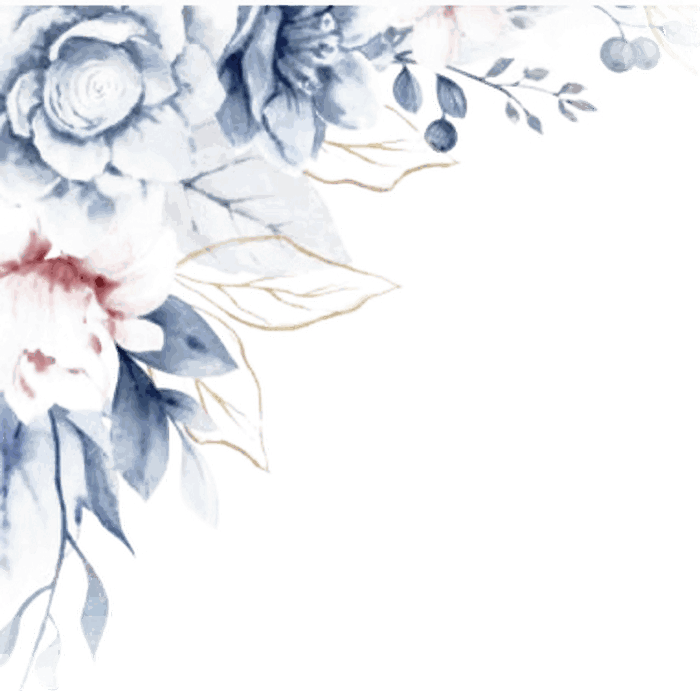
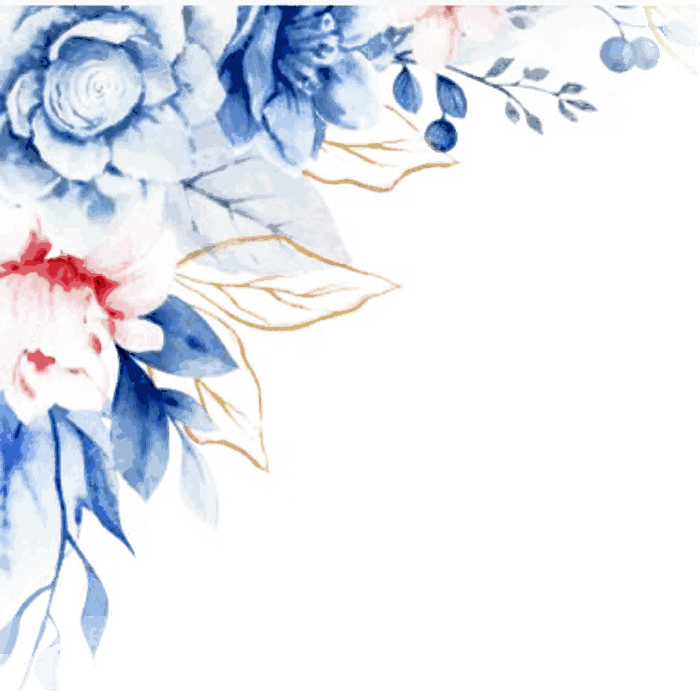
Avivar el color de las flores
La acuarela original es muy clara y, al quitarle el fondo, quedaba
lavada. Se le sube la saturación y el contraste y se baja un poco el
brillo.

La transparencia se sigue calculando sobre la imagen original: si se
calculara después de avivar el color, los blancos se ensuciarían y
aparecería un halo alrededor de las flores.

diff --git a/index.html b/index.html
@@ -12,7 +12,7 @@
 <link rel="preconnect" href="https://fonts.gstatic.com" crossorigin>
 <link href="https://fonts.googleapis.com/css2?family=Allura&family=Marcellus&family=EB+Garamond:ital,wght@0,400;0,500;1,400&display=swap" rel="stylesheet">
 
-<link rel="stylesheet" href="css/estilos.css?v=6">
+<link rel="stylesheet" href="css/estilos.css?v=7">
 </head>
 <body class="cerrada">
 
@@ -251,6 +251,6 @@
   <p class="cierre-fecha" data-fecha="larga">Sábado 7 de noviembre de 2026</p>
 </footer>
 
-<script src="js/animaciones.js?v=6"></script>
+<script src="js/animaciones.js?v=7"></script>
 </body>
 </html>
